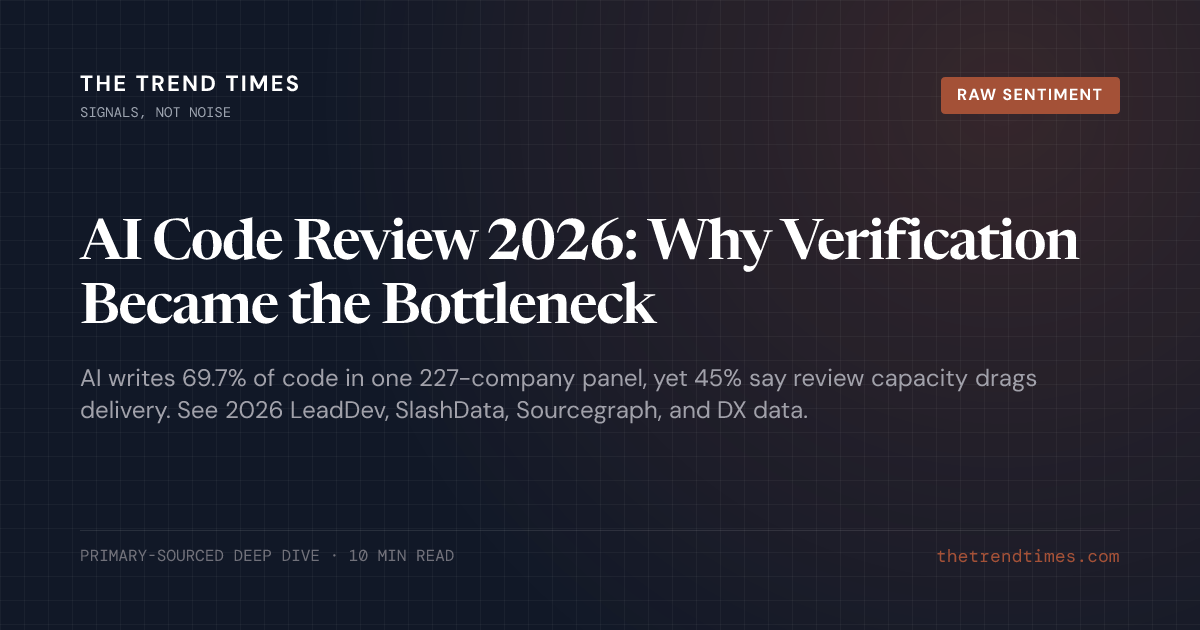
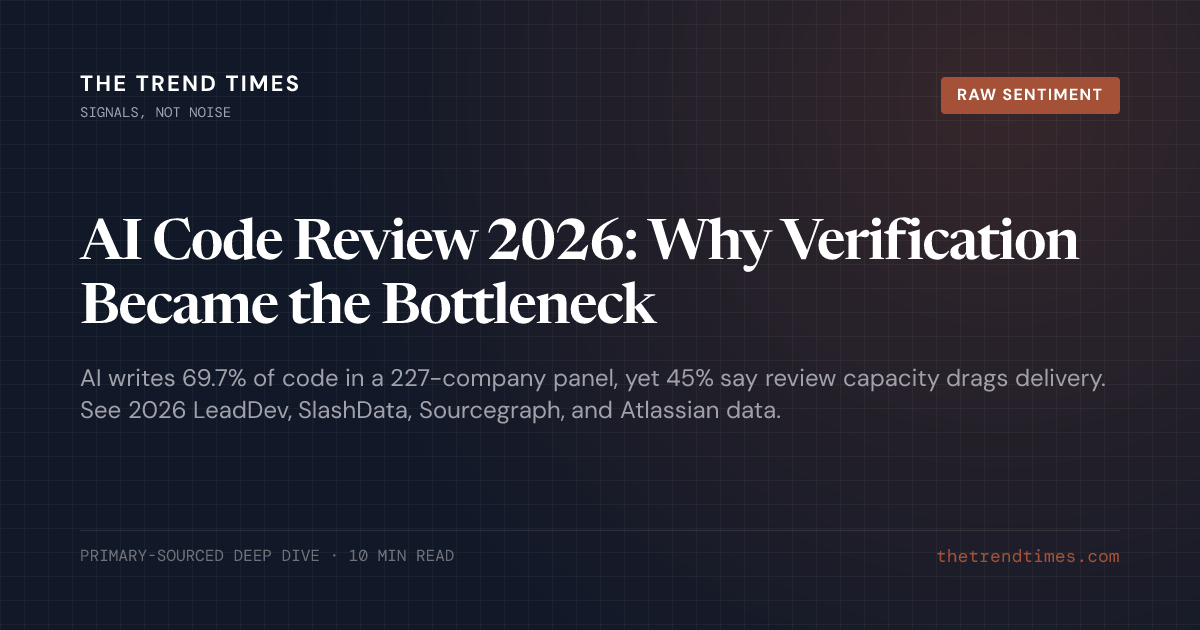
fix(content): correct issue 021 verification tax sourcing and metadata

Changed region(s): [[0.0617, 0.573, 0.925, 0.6635]]

diff --git a/src/content/blog/ai-code-review-bottleneck-2026-verification-tax.md b/src/content/blog/ai-code-review-bottleneck-2026-verification-tax.md
@@ -1,6 +1,6 @@
 ---
 title: "AI Code Review 2026: Why Verification Became the Bottleneck"
-description: "AI writes 69.7% of code in one 227-company panel, yet 45% say review capacity drags delivery. See 2026 LeadDev, SlashData, Sourcegraph, and DX data."
+description: "AI writes 69.7% of code in a 227-company panel, yet 45% say review capacity drags delivery. See 2026 LeadDev, SlashData, Sourcegraph, and Atlassian data."
 pubDate: 2026-11-26
 category: sentiment
 sources:
@@ -22,7 +22,7 @@ Ask 377 engineers and engineering leaders what slows delivery now, and 45% name 
 
 You have probably felt this on your own team. Pull requests arrive faster and larger, the review queue grows, and the person approving a change often did not write any of it. The agent finished in minutes. The merge still waits on someone's afternoon.
 
-This piece puts six November 2026 sources side by side: four surveys, one telemetry index and one engineering benchmark. They measure different people with different definitions, so each number stays with its source. Read together, they describe one shift. The limit on AI-assisted delivery has moved from generating code to checking it, and teams that plan only for faster generation will keep missing dates. The last section is a checklist for measuring review capacity this week.
+This piece puts six November 2026 sources side by side: four surveys, one telemetry index and one vendor benchmark. They measure different people with different definitions, so each number stays with its source. Read together, they describe one shift. The limit on AI-assisted delivery has moved from generating code to checking it, and teams that plan only for faster generation will keep missing dates. The last section is a checklist for measuring review capacity this week.
 
 ## What 377 Reviewers Report About Code Review
 
@@ -34,7 +34,7 @@ That frame is narrower than a debate about trust. It is a capacity question. A t
 
 ## Why Delivery Slows When Generation Gets Faster
 
-SlashData asked the same question at a larger scale. Its 32nd Developer Survey drew 11,099 professional developers from 122 countries, and the results came out on November 12, 2026. 81% agree that AI reduces repetitive work but increases the need for review and verification. Two in five agree strongly, the strongest agreement anywhere in the survey ([SlashData](https://www.slashdata.co/research/faster-code-heavier-checks)).
+SlashData asked the same question at a larger scale. Its 32nd Developer Survey drew 11,099 professional developers from 122 countries, and the results came out on November 12, 2026. 81% agree that AI reduces repetitive work but increases the need for review and validation. Two in five agree strongly, the strongest agreement anywhere in the survey ([SlashData](https://www.slashdata.co/research/faster-code-heavier-checks)).
 
 The pressure comes from above. 76% say managers now expect more output from the same team size because of AI tools, and 68% report pressure to adopt tools before their value is clear ([SlashData](https://www.slashdata.co/research/faster-code-heavier-checks)). SlashData sums it up in one line: "AI makes code cheaper to write but not software cheaper to deliver." In its reading, the effort AI saves shows up again where people check AI output.
 
@@ -52,7 +52,7 @@ Atlassian also tracks AI spend per unit of output, where output is merged pull r
 
 The October rebound is one month of data, and the index's author says so: too early to call it a trend. One detail from that month fits the review story, though. Human pull request review volume grew faster in October than in the months before ([Atlassian](https://www.atlassian.com/blog/company-news/introducing-the-atlassian-ai-sdlc-index)). The post's own phrase is "cheaper code doesn't remove the bottleneck; it moves it."
 
-Time spent on innovation barely moved through all of this. It was 57.8% in October 2026 across 214 companies. From January 2025 (55.3%) to August 2026 (58.5%), it stayed within a band of about three points ([Atlassian](https://www.atlassian.com/blog/company-news/introducing-the-atlassian-ai-sdlc-index)). Two years of faster generation did not free much time for new work.
+Time spent on innovation barely moved through all of this. It was 57.8% in October 2026 across 214 companies, and it stayed between 54.9% and 58.5% from January 2025 through October 2026 ([Atlassian](https://www.atlassian.com/blog/company-news/introducing-the-atlassian-ai-sdlc-index)). Nearly two years of faster generation did not free much time for new work.
 
 ## What a 54% Rework Estimate Means for Review Queues
 
@@ -80,7 +80,7 @@ Review is also how junior developers used to learn. Adaptavist's New Developer R
 
 The career signals are mixed and mostly negative. Nearly half think AI is making software development a less attractive career. Three in ten say AI already hurts their career progress, and 44% say it makes core engineering skills less important. 43% report fewer learning opportunities, rising to 45% among experienced developers ([IT Pro](https://www.itpro.com/software/development/organizations-need-to-help-developers-grow-alongside-the-technology-dejected-devs-lament-career-prospects-amid-ai-advances)).
 
-Then there is the split by career stage. 44% of mid-career developers would remove AI from their workplace if they could, against 31% of early-career developers. Seven in ten worry that junior developers will come to rely on the technology too much, and the article discusses this as a "verification tax" ([IT Pro](https://www.itpro.com/software/development/organizations-need-to-help-developers-grow-alongside-the-technology-dejected-devs-lament-career-prospects-amid-ai-advances)). The tax is the checking work that comes with every AI output. A junior who can't yet judge the output pays it without learning from it.
+Then there is the split by career stage. 44% of mid-career developers would remove AI from their workplace if they could, against 31% of early-career developers. Seven in ten worry that junior developers will come to rely on the technology too much ([IT Pro](https://www.itpro.com/software/development/organizations-need-to-help-developers-grow-alongside-the-technology-dejected-devs-lament-career-prospects-amid-ai-advances)). The article also lists an ongoing "verification tax", which respondents described as spending more time reviewing and verifying code than before. The tax is the checking work that comes with every AI output. A junior who can't yet judge the output pays it without learning from it.
 
 Supervision has become part of the job. About 70% say monitoring and overseeing agents is now an explicit part of their daily role, and 82% regularly assign several agents to one task. After recent incidents, four in 10 review AI output more carefully, 29% want stronger human oversight and 21% plan to give agents less full autonomy ([IT Pro](https://www.itpro.com/software/development/organizations-need-to-help-developers-grow-alongside-the-technology-dejected-devs-lament-career-prospects-amid-ai-advances)).
 

diff --git a/dist-social/issue-021/x-thread.md b/dist-social/issue-021/x-thread.md
@@ -18,7 +18,7 @@ Six November 2026 sources on code review as the bottleneck:
 
 SlashData, 11,099 developers in 122 countries:
 
-81% say AI cuts repetitive work but raises the need for review and verification.
+81% say AI cuts repetitive work but raises the need for review and validation.
 96% don't fully trust AI code to be correct.
 Only 48% always check it before they commit.
 
@@ -52,12 +52,13 @@ Bigger changes take longer to understand. The queue grows with them.
 
 ### 6/7
 
-Adaptavist surveyed 1,000 developers (via IT Pro):
+Adaptavist surveyed 1,000 developers:
 
-63% say AI reduced how much they learn by coding.
-Seven in ten worry juniors will lean on it too much, a cost the piece calls the verification tax.
+63% say AI cut how much they learn by coding. Seven in ten worry juniors lean on it too much.
 
-Juniors pay that tax without learning from it.
+The survey also reports a verification tax: more time reviewing code than before.
+
+Juniors pay it without learning from it.
 
 ### 7/7
 
